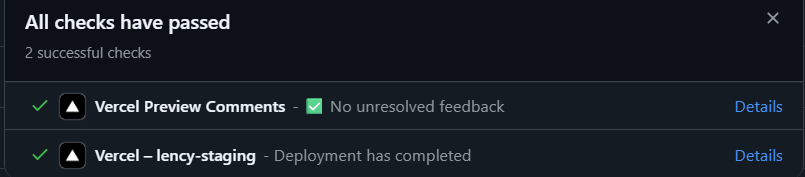
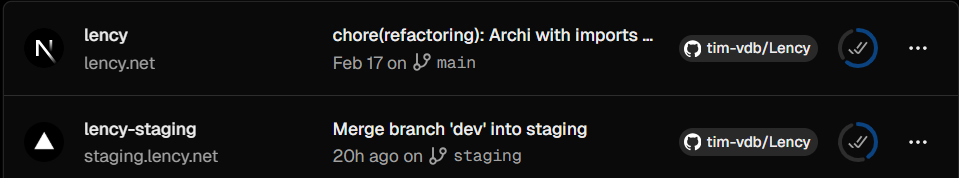
feat(infra PDF finish)

diff --git a/infra.md b/infra.md
@@ -8,13 +8,15 @@
 | Production | https://lency.net |
 | Staging | https://staging.lency.net |
 
+![Projets sur vercel](public/images/Infra/projects.png)
+
 ---
 
 ## 1. Application déployée et fonctionnelle
 
 ### Accessibilité
 
-L'application sera accessible en production sur **https://lency.net** et est déjà disponible en pré-production sur **https://staging.lency.net**.
+L'application est accessible en production sur **https://lency.net** et disponible en pré-production sur **https://staging.lency.net**.
 
 Le déploiement est effectué via **Vercel** (PaaS), connecté au dépôt GitHub `tim-vdb/Lency` :
 
@@ -27,32 +29,21 @@ Le déploiement est effectué via **Vercel** (PaaS), connecté au dépôt GitHub
 
 La base de données est un **PostgreSQL serverless** hébergé sur **Neon.com**, connectée via **Prisma ORM**. Elle est opérationnelle sur les deux environnements avec des instances séparées (production / staging).
 
+![Neon.com projects](public/images/Infra/projects-neon.png)
+
 ### Projet récupéré depuis GitHub
 
-Le projet est lié au dépôt privé `github.com/tim-vdb/Lency`. Chaque push sur une branche surveillée par déclenche automatiquement un nouveau build et déploiement sur Vercel.
+Le projet est lié au dépôt privé `github.com/tim-vdb/Lency`.
+
+![Contributeurs](public/images/Infra/contributeurs.png)
+
+Chaque push sur une branche surveillée déclenche automatiquement un nouveau build et déploiement sur Vercel.
+
+![Checks from Vercel](public/images/Infra/checks-vercel-github.png)
 
 ### Front correctement servi
 
-Le frontend est une application **Next.js 15 (App Router)** compilée via **Turbopack**. Vercel sert les assets statiques depuis son CDN et les 33 routes dynamiques sont exposées via des **fonctions serverless Node.js 24.x** :
-
-| Domaine fonctionnel | Routes serverless |
-|---|---|
-| Auth | `/api/auth/[...all]` |
-| Articles | `/api/articles`, `/api/articles/[articleId]` |
-| Badges | `/api/badges`, `/api/badges/[badgeId]` |
-| Categories | `/api/categories`, `/api/categories/[categoryId]` |
-| Emails | `/api/emails/welcome` |
-| Events | `/api/events`, `/api/events/[eventId]` |
-| MapLocations | `/api/mapLocations`, `/api/mapLocations/[mapLocationId]` |
-| Newsletter | `/api/newsletterSubscribers`, `/api/newsletterSubscribers/[newsletterSubscriberId]` |
-| Posts & Comments | `/api/posts`, `/api/posts/[postId]`, `/api/posts/[postId]/comments`, `/api/posts/[postId]/comments/[commentId]` |
-| Projects | `/api/projects`, `/api/projects/[projectId]` |
-| Resources | `/api/resources`, `/api/resources/[resourceId]` |
-| Spots | `/api/spots`, `/api/spots/[spotId]` |
-| Subscriptions | `/api/subscriptions`, `/api/subscriptions/[subscriptionId]` |
-| Upload | `/api/uploadthing` |
-| UserConfig | `/api/userConfig`, `/api/userConfig/[userConfigId]` |
-| Users | `/api/users`, `/api/users/[userId]`, `/api/users/change-password`, `/api/users/confirm-email-change`, `/api/users/verify-email-change` |
+Le frontend est structuré avec **Next.js 15 (App Router)** compilée via **Turbopack**. Vercel sert les assets statiques depuis son CDN et les 33 routes dynamiques sont exposées via des **fonctions serverless Node.js 24.x**
 
 ---
 
@@ -95,9 +86,17 @@ Chaque environnement dispose de :
 
 HTTPS activé automatiquement sur tous les domaines via les certificats SSL gérés par Vercel (Let's Encrypt). Aucune connexion HTTP non chiffrée n'est possible.
 
+![Vercel SSL](public/images/Infra/test-ssl.png)
+
 ### Secrets non exposés
 
 Les variables d'environnement (clés API, chaînes de connexion DB, secrets d'auth) sont **exclusivement gérées via Doppler**. Elles ne sont jamais commitées dans le dépôt GitHub (`.env.local` présent dans `.gitignore`). Doppler injecte les secrets au moment du build Vercel selon l'environnement (production ou staging et en local development lors du développement).
+
+![Doppler projects](public/images/Infra/doppler-projects.png)
+
+![Doppler project lency-staging](public/images/Infra/doppler-projet-lency-staging.png)
+
+![Doppler project lency](public/images/Infra/doppler-projet-lency.png)
 
 ### Debug désactivé en production
 
@@ -118,8 +117,20 @@ Tout déploiement est déclenché automatiquement par un push GitHub sur la bran
 ### Logs et supervision
 
 - **Build logs** : disponibles dans le dashboard Vercel pour chaque déploiement
+
+![Vercel logs](public/images/Infra/logs-vercel.png)
+
 - **Runtime logs** : fonctions serverless loguées en temps réel sur Vercel (filtrage par niveau, source, status code)
+
+![Vercel Usage](public/images/Infra/usage-vercel.png)
+
 - **Base de données** : supervision via le dashboard Neon.com (connexions, queries, métriques)
+
+![Vercel Supervision](public/images/Infra/supervision-neon.png)
+
+### Maintenance
+
+La maintenance est géré directement via une variable d'environnement stocké sur **Doppler** et vérifie si elle est à true pour afficher la page /maintenance sur [lency.net](https://lency.net) en production ou sur la pré-production [staging.lency.net](https://staging.lency.net)
 
 ### Procédure d'accès serveur
 
@@ -127,24 +138,62 @@ Architecture PaaS — pas de serveur à administrer directement. L'accès se fai
 1. Dashboard Vercel pour gérer l'hébergement, nom de domaine, SSL, Analytics etc.
 2. Dashboard Neon.com pour la base de données
 3. Dashboard Doppler pour les secrets d'environnements
-4. CLI Vercel pour les opérations avancées
+4. CLI Vercel pour les opérations avancées directement depuis l'IDE
 
 ---
 
-## 5. Dossier de rendu (/2 pts)
+## 5. Dossier de rendu
 
 ### Solution retenue
 
-_(à compléter)_
+La solution retenue repose sur une architecture **PaaS entièrement managée**, sans serveur à administrer :
+
+- **Vercel** comme plateforme d'hébergement et de déploiement continu pour l'application **Next.js 15**
+- **Neon.com** pour la base de données **PostgreSQL serverless**, avec deux instances isolées (production / staging)
+- **Prisma ORM** pour la gestion du schéma de données et les migrations versionées
+- **Doppler** pour la gestion centralisée des secrets d'environnement (3 projets : `lency`, `lency-staging`, `lency-development`)
+- **Resend** pour l'envoi d'emails transactionnels depuis `[email redacted]`
+- **Better Auth** pour l'authentification avec sessions sécurisées
+
+Le déploiement est entièrement automatisé via un pipeline CI/CD GitHub géré par Vercel vers le déploiement hébergé sur Vercel : chaque push sur `main` ou `staging` déclenche un build, une migration Prisma et un déploiement sans intervention manuelle.
+
+---
 
 ### Étapes de déploiement
 
-_(à compléter)_
+1. **Connexion GitHub → Vercel** : lier le dépôt privé `tim-vdb/Lency` aux deux projets Vercel (`lency` et `lency-staging`)
+2. **Configuration des branches** : `main` → `lency.net` (production), `staging` → `staging.lency.net`
+3. **Création des bases de données** sur Neon.com (instances prod et staging séparées), récupération des `DATABASE_URL`
+4. **Configuration Doppler** : création des trois projets avec toutes les variables d'environnement (DB, auth, API keys, SMTP...)
+5. **Intégration Doppler ↔ Vercel** : activation de la synchronisation automatique des secrets au moment du build via le dashboard Doppler
+6. **Configuration du domaine** `lency.net` sur Vercel, ajout des enregistrements DNS chez Vercel
+7. **Ajout des sous-domaines** : `staging.lency.net` et `mail.lency.net` (pour Resend)
+8. **Configuration email** : ajout des enregistrements SPF, DKIM et DMARC dans les DNS pour `mail.lency.net` via Resend
+9. **Vérification SSL** : certificats Let's Encrypt provisionnés automatiquement par Vercel sur tous les domaines
+
+---
 
 ### Difficultés rencontrées
 
-_(à compléter)_
+- **Adapter Prisma pour Neon serverless** : Neon fonctionne via WebSocket en mode serverless, ce qui nécessite `@neondatabase/serverless` et `@prisma/adapter-neon` à la place du driver PostgreSQL classique. La configuration de l'adaptateur dans le client Prisma a demandé des ajustements spécifiques.
+
+- **Migrations Prisma en production** : l'exécution des migrations au moment du build Vercel (et non au runtime) a imposé la création d'un script `vercel-build` dédié, pour garantir que le schéma DB est toujours synchronisé avec le code déployé.
+
+- **Injection des secrets via Doppler** : la configuration de la synchronisation Doppler → Vercel nécessite une intégration spécifique côté Doppler. Comprendre la priorité entre les variables définies directement dans Vercel et celles injectées par Doppler a nécessité des tests.
+
+- **Configuration DNS et emails** : la mise en place des enregistrements SPF, DKIM et DMARC pour `mail.lency.net` a requis une configuration précise côté Vercel et Resend pour éviter que les emails atterrissent en spam.
+
+- **Gestion des conflits de merge** : le workflow multi-branches (`main` / `staging` / `dev` / features) a occasionné des problématiques à réfléchir.
+
+---
 
 ### Justification des choix
 
-_(à compléter)_
+| Choix | Justification |
+|---|---|
+| **Vercel (PaaS)** | Compatibilité native avec Next.js (même éditeur), CDN global intégré, scaling automatique, SSL automatique, 0 gestion de serveur, intégration CI/CD GitHub en quelques clics géré via Vercel |
+| **Neon.com (PostgreSQL serverless)** | Serverless adapté aux charges variables d'un SaaS, pricing à l'usage, instances isolées par environnement, compatibilité totale avec Prisma via adaptateur officiel |
+| **Prisma ORM** | Type-safety complète avec TypeScript, migrations versionées et traçables dans Git, Prisma Studio pour visualiser la DB en développement |
+| **Doppler** | Centralisation des secrets multi-environnements en un seul outil, intégration native Vercel, aucun secret dans le code ni dans `.env` commité |
+| **Better Auth** | Bibliothèque d'authentification moderne et flexible pour Next.js App Router, sessions sécurisées, extensible (OAuth, 2FA...) |
+| **Resend** | Envoi d'emails transactionnels fiable via API REST simple, support SPF/DKIM/DMARC natif, taux de délivrabilité élevé |